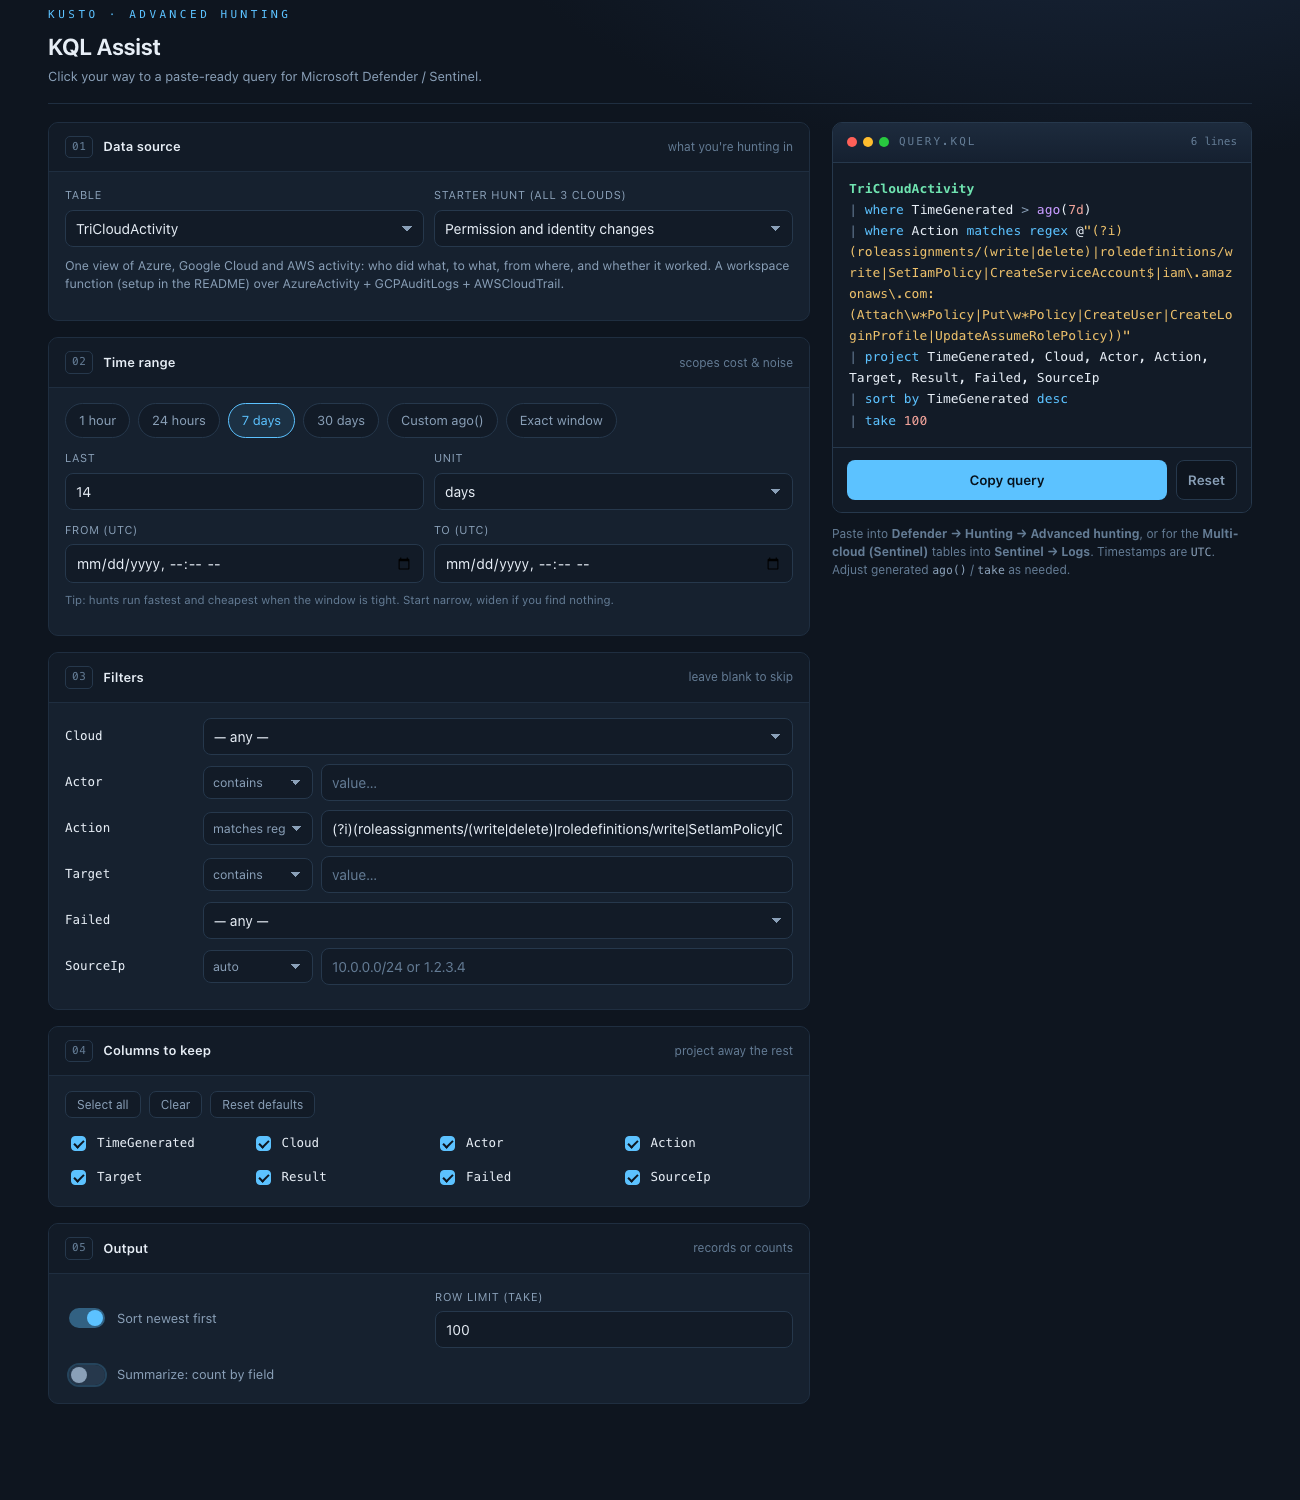
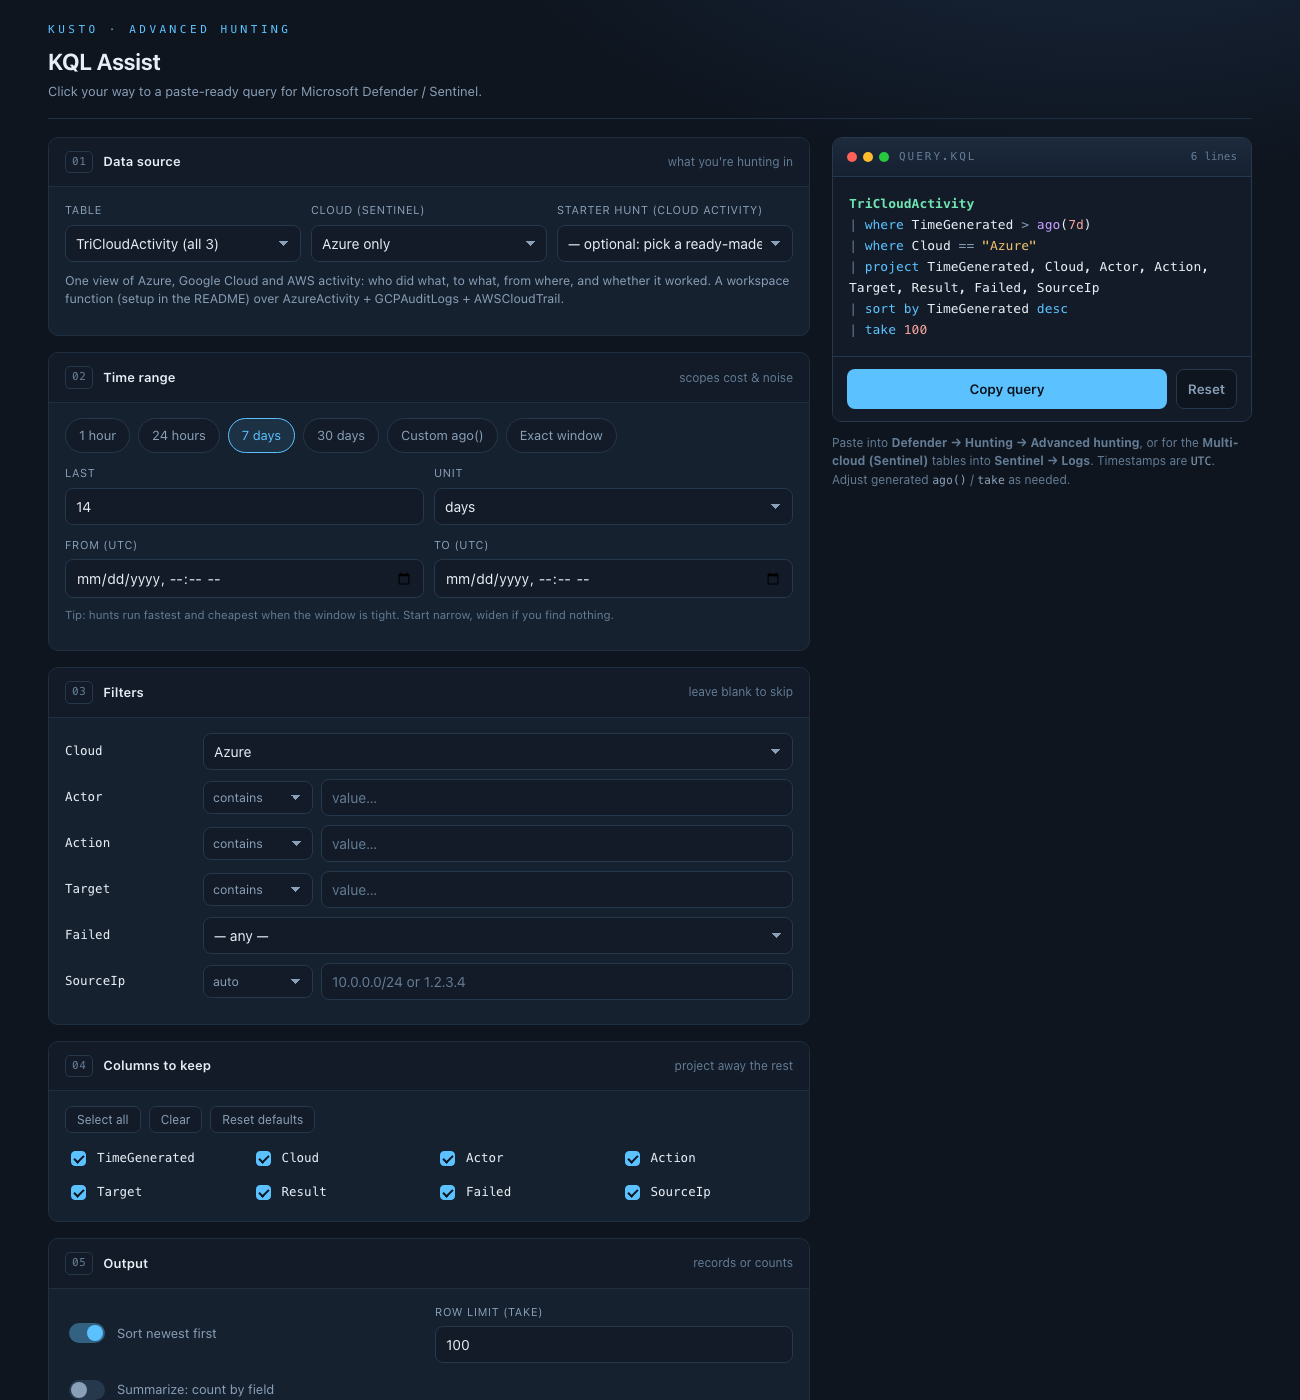
Cloud picker (All / Azure / Google / AWS) for TriCloudActivity and starter hunts; label tables by cloud

diff --git a/kql-assist.html b/kql-assist.html
@@ -197,8 +197,17 @@
               <select id="source"></select>
             </div>
             <div class="one">
-              <label class="fld" for="hunt">Starter hunt (all 3 clouds)</label>
-              <select id="hunt"><option value="">— optional: pick a cross-cloud hunt —</option></select>
+              <label class="fld" for="cloud">Cloud (Sentinel)</label>
+              <select id="cloud">
+                <option value="">All 3 clouds</option>
+                <option value="Azure">Azure only</option>
+                <option value="GCP">Google Cloud only</option>
+                <option value="AWS">AWS only</option>
+              </select>
+            </div>
+            <div class="one">
+              <label class="fld" for="hunt">Starter hunt (cloud activity)</label>
+              <select id="hunt"><option value="">— optional: pick a ready-made hunt —</option></select>
             </div>
           </div>
           <p class="src-desc" id="srcDesc"></p>
@@ -465,6 +474,10 @@ const HUNTS = [
   {name:"Everything that failed or was denied", failed:true}
 ];
 
+/* Friendly names in the Table dropdown, so it's clear which cloud each table holds. */
+const LABELS = {TriCloudActivity:"TriCloudActivity (all 3)", AzureActivity:"AzureActivity (Azure)",
+  GCPAuditLogs:"GCPAuditLogs (Google)", AWSCloudTrail:"AWSCloudTrail (AWS)", SecurityAlert:"SecurityAlert (all alerts)"};
+
 const CAT_ORDER = ["Endpoint","Identity","Email","Cloud","Alerts","Multi-cloud (Sentinel)"];
 
 /* ---------- state ---------- */
@@ -484,7 +497,7 @@ function buildSources(){
   CAT_ORDER.forEach(cat=>{
     const og = document.createElement("optgroup"); og.label = cat;
     Object.keys(SOURCES).filter(k=>SOURCES[k].cat===cat).forEach(k=>{
-      const o = document.createElement("option"); o.value=k; o.textContent=k; og.appendChild(o);
+      const o = document.createElement("option"); o.value=k; o.textContent=LABELS[k]||k; og.appendChild(o);
     });
     sel.appendChild(og);
   });
@@ -705,7 +718,7 @@ function wire(){
     document.querySelector('input[name="time"][value="7d"]').checked=true;
     $("relBox").hidden=true; $("absBox").hidden=true;
     $("optSort").checked=true; $("optLimit").value=100;
-    $("optSummarize").checked=false; $("sumBox").hidden=true;
+    $("optSummarize").checked=false; $("sumBox").hidden=true; $("cloud").value="";
     renderFilters(); renderColumns(true); render();
   });
 }
@@ -722,14 +735,35 @@ function buildHunts(){
     renderFilters(); renderColumns(true);
     if(h.regex){ ui.Action.op.value="matches regex"; ui.Action.inp.value=h.regex; ui.Action.upd(); }
     if(h.failed){ ui.Failed.sel.value="true"; state.filters.Failed={kind:"bool",val:"true"}; }
-    render();
+    applyCloud(); render();
   });
-  $("source").addEventListener("change",()=>{ sel.value=""; });
+  $("source").addEventListener("change",e=>{ sel.value=""; if(e.target.value!=="TriCloudActivity") $("cloud").value=""; });
+}
+
+/* ---------- cloud picker: narrows TriCloudActivity (and any starter hunt) to one cloud ---------- */
+function applyCloud(){
+  if(state.source!=="TriCloudActivity") return;
+  const c=$("cloud").value; ui.Cloud.sel.value=c; state.filters.Cloud={kind:"enum",val:c};
+}
+function buildCloud(){
+  $("cloud").addEventListener("change",()=>{
+    if(state.source!=="TriCloudActivity"){
+      state.source="TriCloudActivity"; $("source").value=state.source; $("hunt").value="";
+      $("srcDesc").textContent=SOURCES[state.source].desc;
+      renderFilters(); renderColumns(true);
+    }
+    applyCloud(); render();
+  });
+  // keep the top picker in step when someone changes the Cloud filter row by hand
+  $("filters").addEventListener("change",()=>{
+    if(state.source==="TriCloudActivity") $("cloud").value=(state.filters.Cloud||{}).val||"";
+  });
 }
 
 /* ---------- init ---------- */
 buildSources();
 buildHunts();
+buildCloud();
 $("srcDesc").textContent=SOURCES[state.source].desc;
 renderFilters();
 renderColumns(true);

diff --git a/README.md b/README.md
@@ -21,6 +21,7 @@ Every table ships with a curated set of ~10–20 relevant columns pre-checked by
 - **12 Advanced Hunting tables**, grouped by domain (Endpoint / Identity / Email / Cloud / Alerts)
 - **Multi-cloud (Sentinel)**: `AzureActivity`, `GCPAuditLogs`, `AWSCloudTrail`, `SecurityAlert`, and `TriCloudActivity` (all three clouds in one shape)
 - **Starter hunts across all 3 clouds**: one click for permission changes, logging switched off, new VMs (crypto-mining watch), keys/secrets created, or everything that failed
+- **Cloud picker**: All 3 clouds, Azure only, Google Cloud only, or AWS only. It narrows any table view or starter hunt to that cloud
 - **Time scoping** — 1h / 24h / 7d / 30d chips, custom `ago(N unit)`, or an exact `between(datetime .. datetime)` window for incident timelines
 - **Schema-aware filters** — text fields get an operator dropdown (`contains`, `==`, `!=`, `has`, `startswith`, `endswith`, `in`), enum fields (ActionType, LogonType, Severity, DeliveryAction…) render as dropdowns of valid values
 - **IP handling** — CIDR input auto-generates `ipv4_is_in_subnet()`, single addresses use `==`
@@ -128,4 +129,8 @@ union isfuzzy=true
               Result = iff(isempty(ErrorCode), "Success", ErrorCode), SourceIp = SourceIpAddress)
 ```
 
-Then pick **Starter hunt (all 3 clouds)** in KQL Assist, copy, and paste into Sentinel > Logs.
+Then pick a **Starter hunt** in KQL Assist (and optionally a **Cloud** to narrow it to one), copy, and paste into Sentinel > Logs.
+
+**Two ways to look at one cloud:**
+- **Cloud picker** (e.g. "Google Cloud only"): uses `TriCloudActivity`, so the columns are the same simple ones for every cloud. Best for beginners and side-by-side comparisons.
+- **The cloud's own table** (`AzureActivity`, `GCPAuditLogs`, `AWSCloudTrail` in the Table list): every field that cloud records, in its own names. Best when you need detail the shared view drops.
